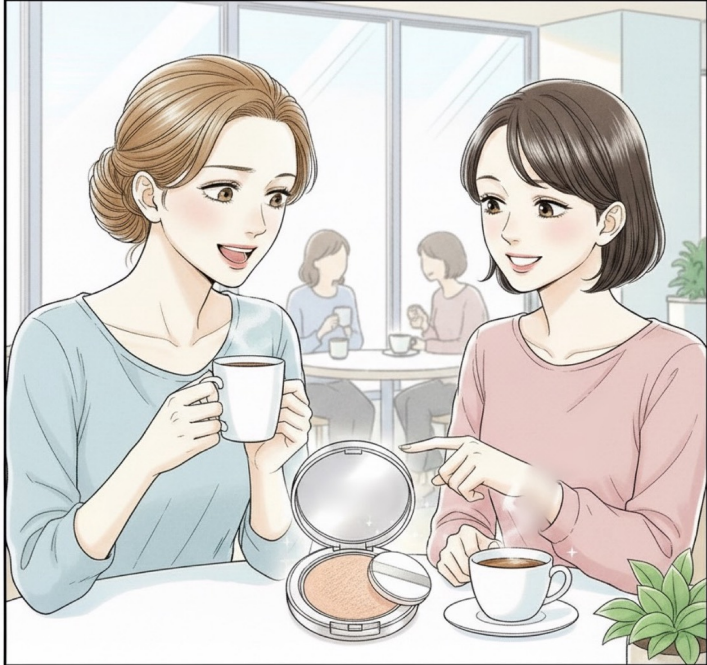
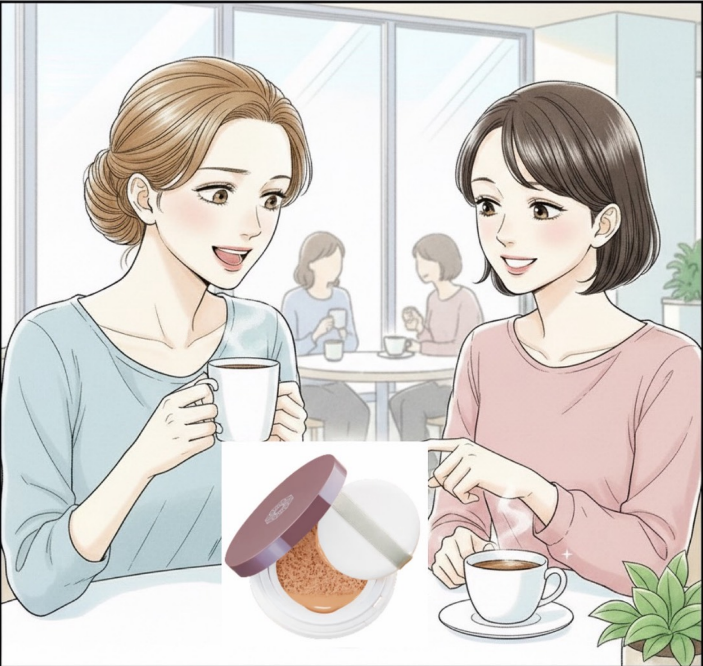
マンガLPの改修
- 2番目の漫画画像を更新
- 4番目の漫画テキストを「毎日のメイク時間が私を前向きな気持ちに！」に変更
- キャッチコピーを「パーフェクトワン　グロウ＆カバークッションファンデーションで理想のうるツヤ肌へ」に変更
- 「魅力01」～「魅力04」のスタイルを強化（フォントサイズ16px→24px、太字、シャドウ追加）
- 「スリムポーチプレゼント」を「持ち運び用ポーチプレゼント」に変更

🤖 Generated with [Claude Code](https://claude.com/claude-code)

diff --git a/index.html b/index.html
@@ -710,7 +710,10 @@
 
       .step-number {
         margin-bottom: 20px;
-        font-size: 16px;
+        font-size: 24px;
+        font-weight: 700;
+        color: var(--luxury-brown);
+        text-shadow: 2px 2px 4px rgba(0,0,0,0.1);
       }
 
       /* Mobile Responsive for Features */
@@ -1832,7 +1835,7 @@
           <figure class="comic-scene">
             <a href="https://www.shinnihonseiyaku.co.jp/lp/promotion/cosme/2375b_19/" data-ga-event="cta_click" data-ga-label="manga-image"><img src="manga/05.png" alt="明るい未来" loading="lazy" /></a>
             <figcaption>
-              <p class="narration">これなら、鏡を見るのが楽しくなる！<br>毎日のメイクが楽しみに！</p>
+              <p class="narration">毎日のメイク時間が私を前向きな気持ちに！</p>
             </figcaption>
           </figure>
         </div>
@@ -2089,7 +2092,7 @@
               </div>
               <div class="guarantee-item">
                 <span class="icon">✓</span>
-                <span>スリムポーチプレゼント</span>
+                <span>持ち運び用ポーチプレゼント</span>
               </div>
             </div>
           </div>
@@ -2100,7 +2103,7 @@
       <footer class="footer">
         <div class="container">
           <div class="footer-impact">
-            <h3 class="footer-title"><span style="white-space: nowrap;">あなたの自信を、</span><br><span style="white-space: nowrap;">パーフェクトワン</span><br><span style="white-space: nowrap;">グロウ＆カバー</span><br><span style="white-space: nowrap;">クッションファンデと共に</span></h3>
+            <h3 class="footer-title"><span style="white-space: nowrap;">あなたの自信を、</span><br><span style="white-space: nowrap;">パーフェクトワン</span><br><span style="white-space: nowrap;">グロウ＆カバー</span><br><span style="white-space: nowrap;">クッションファンデーションで理想のうるツヤ肌へ</span></h3>
             <p class="footer-message">毎日のメイクで、<br>もっと自分らしく輝く未来へ</p>
             <div class="footer-cta">
               <a href="https://www.shinnihonseiyaku.co.jp/lp/promotion/cosme/2375b_19/" class="cta-button footer-button" data-ga-event="cta_click" data-ga-label="footer">
